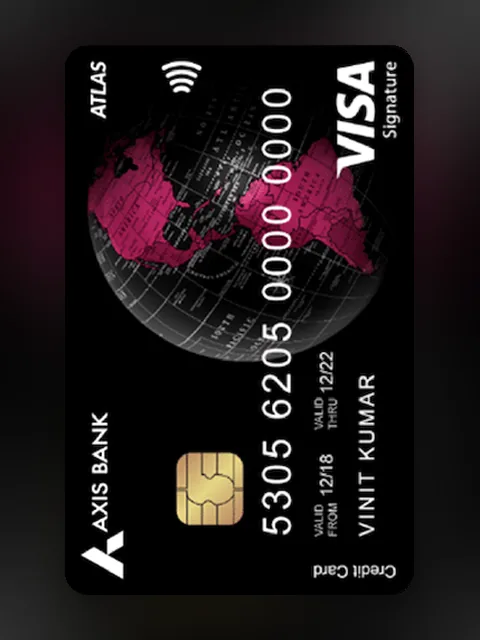
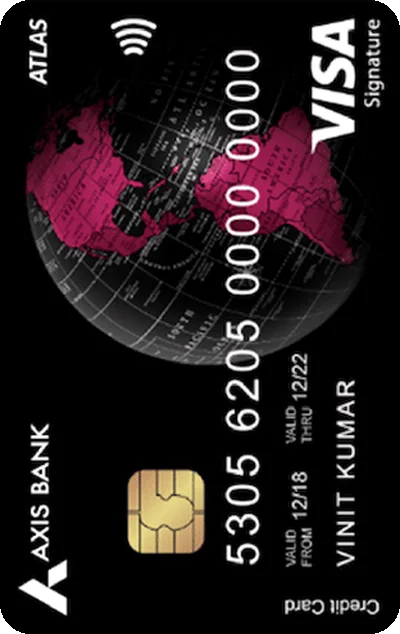
Show plain card faces in the hero strip, tucked under the copy
Tiles are now only the card itself (upright, card-shaped, no blurred
backdrop or product photos), as in the hero-3 demo. The reviewed cards'
photos are straightened into flat faces, Scapia uses the flat Federal Bank
card, and the strip tucks up under the Try chips. home.css v27.

Claude-Session: https://claude.ai/code/session_01Sx266Xfkv3oGPtJ2CstTh2

diff --git a/home.html b/home.html
@@ -50,7 +50,7 @@
   <link rel="stylesheet" href="/assets/follow.css?v=4">
   <link rel="stylesheet" href="/assets/backdrop.css?v=4">
   <link rel="stylesheet" href="/assets/header.css?v=9">
-  <link rel="stylesheet" href="/assets/home.css?v=26">
+  <link rel="stylesheet" href="/assets/home.css?v=27">
   <link rel="stylesheet" href="/assets/arc-tabs.css?v=5">
   <link rel="stylesheet" href="/assets/polish.css?v=4">
   <link rel="stylesheet" href="/assets/motion.css?v=4">
@@ -119,27 +119,27 @@
         <h2 class="sr-only" id="marquee-title">Popular credit cards in India</h2>
         <div class="hm-marquee-viewport">
         <ul class="hm-marquee-track" aria-labelledby="marquee-title">
-          <li class="hm-marquee-item"><span class="hm-marquee-card"><img src="/assets/hero/marquee/hdfc-infinia.webp" alt="HDFC Bank Infinia credit card" width="480" height="640" decoding="async"></span></li>
-          <li class="hm-marquee-item"><span class="hm-marquee-card"><img src="/assets/hero/marquee/sbi-cashback.webp" alt="Cashback SBI Card credit card" width="480" height="640" decoding="async"></span></li>
-          <li class="hm-marquee-item"><span class="hm-marquee-card"><img src="/assets/hero/marquee/axis-magnus.webp" alt="Axis Bank Magnus credit card" width="480" height="640" decoding="async"></span></li>
-          <li class="hm-marquee-item"><a class="hm-marquee-card" href="https://avhishek.in/card-reviews/eternal-sbi-card" aria-label="Eternal SBI Card review"><img src="/assets/hero/marquee/eternal-sbi-card.webp" alt="" width="480" height="640" decoding="async"></a></li>
-          <li class="hm-marquee-item"><span class="hm-marquee-card"><img src="/assets/hero/marquee/swiggy-hdfc.webp" alt="Swiggy HDFC Bank credit card" width="480" height="640" decoding="async"></span></li>
-          <li class="hm-marquee-item"><span class="hm-marquee-card"><img src="/assets/hero/marquee/amex-platinum-travel.webp" alt="American Express Platinum Travel credit card" width="480" height="640" decoding="async"></span></li>
-          <li class="hm-marquee-item"><span class="hm-marquee-card"><img src="/assets/hero/marquee/flipkart-axis.webp" alt="Flipkart Axis Bank credit card" width="480" height="640" decoding="async"></span></li>
-          <li class="hm-marquee-item"><a class="hm-marquee-card" href="https://avhishek.in/card-reviews/hsbc-live-plus" aria-label="HSBC Live+ review"><img src="/assets/hero/marquee/hsbc-live-plus.webp" alt="" width="480" height="640" decoding="async"></a></li>
-          <li class="hm-marquee-item"><span class="hm-marquee-card"><img src="/assets/hero/marquee/hdfc-diners-black.webp" alt="HDFC Bank Diners Club Black credit card" width="480" height="640" decoding="async"></span></li>
-          <li class="hm-marquee-item"><span class="hm-marquee-card"><img src="/assets/hero/marquee/amazon-pay-icici.webp" alt="Amazon Pay ICICI Bank credit card" width="480" height="640" decoding="async"></span></li>
-          <li class="hm-marquee-item"><span class="hm-marquee-card"><img src="/assets/hero/marquee/axis-atlas.webp" alt="Axis Bank Atlas credit card" width="480" height="640" decoding="async"></span></li>
-          <li class="hm-marquee-item"><a class="hm-marquee-card" href="https://avhishek.in/card-reviews/kredit-pe-yes-bank-max-credit-card" aria-label="Kredit.Pe Max review"><img src="/assets/hero/marquee/kredit-pe-yes-bank-max-credit-card.webp" alt="" width="480" height="640" decoding="async"></a></li>
-          <li class="hm-marquee-item"><span class="hm-marquee-card"><img src="/assets/hero/marquee/tata-neu-infinity-hdfc.webp" alt="Tata Neu Infinity HDFC Bank credit card" width="480" height="640" decoding="async"></span></li>
-          <li class="hm-marquee-item"><span class="hm-marquee-card"><img src="/assets/hero/marquee/icici-emeralde-private.webp" alt="ICICI Bank Emeralde Private credit card" width="480" height="640" decoding="async"></span></li>
-          <li class="hm-marquee-item"><span class="hm-marquee-card"><img src="/assets/hero/marquee/airtel-axis.webp" alt="Airtel Axis Bank credit card" width="480" height="640" decoding="async"></span></li>
-          <li class="hm-marquee-item"><a class="hm-marquee-card" href="https://avhishek.in/card-reviews/slice-business-credit-card" aria-label="slice Business review"><img src="/assets/hero/marquee/slice-business-credit-card.webp" alt="" width="480" height="640" decoding="async"></a></li>
-          <li class="hm-marquee-item"><span class="hm-marquee-card"><img src="/assets/hero/marquee/hdfc-regalia-gold.webp" alt="HDFC Bank Regalia Gold credit card" width="480" height="640" decoding="async"></span></li>
-          <li class="hm-marquee-item"><span class="hm-marquee-card"><img src="/assets/hero/marquee/idfc-first-wealth.webp" alt="IDFC FIRST Wealth credit card" width="480" height="640" decoding="async"></span></li>
-          <li class="hm-marquee-item"><span class="hm-marquee-card"><img src="/assets/hero/marquee/hdfc-millennia.webp" alt="HDFC Bank Millennia credit card" width="480" height="640" decoding="async"></span></li>
-          <li class="hm-marquee-item"><span class="hm-marquee-card"><img src="/assets/hero/marquee/au-zenith-plus.webp" alt="AU Bank Zenith+ credit card" width="480" height="640" decoding="async"></span></li>
-          <li class="hm-marquee-item"><span class="hm-marquee-card"><img src="/assets/hero/marquee/scapia-axis.webp" alt="Scapia Axis Bank credit card" width="480" height="640" decoding="async"></span></li>
+          <li class="hm-marquee-item"><span class="hm-marquee-card"><img src="/assets/hero/marquee/hdfc-infinia.webp" alt="HDFC Bank Infinia credit card" width="400" height="634" decoding="async"></span></li>
+          <li class="hm-marquee-item"><span class="hm-marquee-card"><img src="/assets/hero/marquee/sbi-cashback.webp" alt="Cashback SBI Card credit card" width="400" height="634" decoding="async"></span></li>
+          <li class="hm-marquee-item"><span class="hm-marquee-card"><img src="/assets/hero/marquee/axis-magnus.webp" alt="Axis Bank Magnus credit card" width="400" height="634" decoding="async"></span></li>
+          <li class="hm-marquee-item"><a class="hm-marquee-card" href="https://avhishek.in/card-reviews/eternal-sbi-card" aria-label="Eternal SBI Card review"><img src="/assets/hero/marquee/eternal-sbi-card.webp" alt="" width="400" height="634" decoding="async"></a></li>
+          <li class="hm-marquee-item"><span class="hm-marquee-card"><img src="/assets/hero/marquee/swiggy-hdfc.webp" alt="Swiggy HDFC Bank credit card" width="400" height="634" decoding="async"></span></li>
+          <li class="hm-marquee-item"><span class="hm-marquee-card"><img src="/assets/hero/marquee/amex-platinum-travel.webp" alt="American Express Platinum Travel credit card" width="400" height="634" decoding="async"></span></li>
+          <li class="hm-marquee-item"><span class="hm-marquee-card"><img src="/assets/hero/marquee/flipkart-axis.webp" alt="Flipkart Axis Bank credit card" width="400" height="634" decoding="async"></span></li>
+          <li class="hm-marquee-item"><a class="hm-marquee-card" href="https://avhishek.in/card-reviews/hsbc-live-plus" aria-label="HSBC Live+ review"><img src="/assets/hero/marquee/hsbc-live-plus.webp" alt="" width="400" height="634" decoding="async"></a></li>
+          <li class="hm-marquee-item"><span class="hm-marquee-card"><img src="/assets/hero/marquee/hdfc-diners-black.webp" alt="HDFC Bank Diners Club Black credit card" width="400" height="634" decoding="async"></span></li>
+          <li class="hm-marquee-item"><span class="hm-marquee-card"><img src="/assets/hero/marquee/amazon-pay-icici.webp" alt="Amazon Pay ICICI Bank credit card" width="400" height="634" decoding="async"></span></li>
+          <li class="hm-marquee-item"><span class="hm-marquee-card"><img src="/assets/hero/marquee/axis-atlas.webp" alt="Axis Bank Atlas credit card" width="400" height="634" decoding="async"></span></li>
+          <li class="hm-marquee-item"><a class="hm-marquee-card" href="https://avhishek.in/card-reviews/kredit-pe-yes-bank-max-credit-card" aria-label="Kredit.Pe Max review"><img src="/assets/hero/marquee/kredit-pe-yes-bank-max-credit-card.webp" alt="" width="400" height="634" decoding="async"></a></li>
+          <li class="hm-marquee-item"><span class="hm-marquee-card"><img src="/assets/hero/marquee/tata-neu-infinity-hdfc.webp" alt="Tata Neu Infinity HDFC Bank credit card" width="400" height="634" decoding="async"></span></li>
+          <li class="hm-marquee-item"><span class="hm-marquee-card"><img src="/assets/hero/marquee/icici-emeralde-private.webp" alt="ICICI Bank Emeralde Private credit card" width="400" height="634" decoding="async"></span></li>
+          <li class="hm-marquee-item"><span class="hm-marquee-card"><img src="/assets/hero/marquee/airtel-axis.webp" alt="Airtel Axis Bank credit card" width="400" height="634" decoding="async"></span></li>
+          <li class="hm-marquee-item"><a class="hm-marquee-card" href="https://avhishek.in/card-reviews/slice-business-credit-card" aria-label="slice Business review"><img src="/assets/hero/marquee/slice-business-credit-card.webp" alt="" width="400" height="634" decoding="async"></a></li>
+          <li class="hm-marquee-item"><span class="hm-marquee-card"><img src="/assets/hero/marquee/hdfc-regalia-gold.webp" alt="HDFC Bank Regalia Gold credit card" width="400" height="634" decoding="async"></span></li>
+          <li class="hm-marquee-item"><span class="hm-marquee-card"><img src="/assets/hero/marquee/idfc-first-wealth.webp" alt="IDFC FIRST Wealth credit card" width="400" height="634" decoding="async"></span></li>
+          <li class="hm-marquee-item"><span class="hm-marquee-card"><img src="/assets/hero/marquee/hdfc-millennia.webp" alt="HDFC Bank Millennia credit card" width="400" height="634" decoding="async"></span></li>
+          <li class="hm-marquee-item"><span class="hm-marquee-card"><img src="/assets/hero/marquee/au-zenith-plus.webp" alt="AU Bank Zenith+ credit card" width="400" height="634" decoding="async"></span></li>
+          <li class="hm-marquee-item"><span class="hm-marquee-card"><img src="/assets/hero/marquee/scapia-federal.webp" alt="Scapia Federal Bank credit card" width="400" height="634" decoding="async"></span></li>
         </ul>
         </div>
         <button type="button" class="hm-marquee-toggle" aria-pressed="false" aria-label="Pause the card strip" hidden><svg class="hm-marquee-pause" viewBox="0 0 24 24" width="14" height="14" aria-hidden="true" focusable="false" fill="currentColor"><rect x="6" y="5" width="4" height="14" rx="1"/><rect x="14" y="5" width="4" height="14" rx="1"/></svg><svg class="hm-marquee-play" viewBox="0 0 24 24" width="14" height="14" aria-hidden="true" focusable="false" fill="currentColor"><path d="M8 5.5v13a1 1 0 0 0 1.5.86l10.5-6.5a1 1 0 0 0 0-1.72L9.5 4.64A1 1 0 0 0 8 5.5Z"/></svg></button>

diff --git a/assets/home.css b/assets/home.css
@@ -715,9 +715,9 @@ html[data-theme="dark"] .hm {
 
 
 /* ---------- Card marquee hero (21st.dev hero-3 layout) ----------
-   The hero fills the first screen: copy centred above, a strip of portrait card
-   tiles along the bottom, tilted -2deg / 5deg in turn, drifting right and faded
-   top and bottom. home.js repeats the set so one copy is wider than the screen,
+   The hero fills the first screen: copy centred above, a strip of upright card
+   faces along the bottom that tucks up under the copy, tilted -2deg / 5deg in
+   turn, drifting right and faded top and bottom. home.js repeats the set so one copy is wider than the screen,
    then doubles it so the loop is seamless. Without JS or with reduced motion it
    is a plain scroll row. Pauses on hover, focus and the corner button. */
 .hm-hero--marquee {
@@ -726,17 +726,19 @@ html[data-theme="dark"] .hm {
   min-height: calc(100svh - 140px);
 }
 .hm-hero-copy {
+  position: relative;
+  z-index: 1;
   display: grid;
   justify-items: center;
   margin-block: auto;
 }
 .hm-marquee {
-  --mq-h: clamp(170px, 22svh, 256px);
+  --mq-h: clamp(180px, 27svh, 260px);
   --mq-gap: 16px;
   --mq-speed: 40s;
   position: relative;
   width: 100vw;
-  margin: 28px calc(50% - 50vw) 0;
+  margin: -36px calc(50% - 50vw) 0;
 }
 .hm-marquee-viewport {
   overflow-x: clip;
@@ -755,15 +757,14 @@ html[data-theme="dark"] .hm {
   overflow-x: auto;
   scrollbar-width: none;
 }
-.hm-marquee-item { flex: none; height: var(--mq-h); aspect-ratio: 3 / 4; rotate: -2deg; }
+.hm-marquee-item { flex: none; height: var(--mq-h); aspect-ratio: 400 / 634; rotate: -2deg; }
 .hm-marquee-item:nth-child(even) { rotate: 5deg; }
 .hm-marquee-card {
   display: block;
   overflow: hidden;
   width: 100%;
   height: 100%;
-  border-radius: var(--radius-lg);
-  background: var(--surface-muted);
+  border-radius: 7.5% / 4.7%;
   box-shadow: 0 4px 6px -1px rgb(0 0 0 / 0.1), 0 2px 4px -2px rgb(0 0 0 / 0.1);
   transition: transform 320ms var(--hm-ease);
 }
@@ -798,7 +799,7 @@ body.home-page { overflow-x: clip; }
 .hm-marquee-toggle[aria-pressed="true"] .hm-marquee-pause { display: none; }
 .hm-marquee-toggle[aria-pressed="true"] .hm-marquee-play { display: block; }
 @media (max-width: 768px) {
-  .hm-marquee { --mq-h: 192px; margin-top: 24px; }
+  .hm-marquee { --mq-h: 230px; margin-top: -20px; }
 }
 @media (max-width: 640px) {
   .hm-hero--marquee { min-height: 0; }
